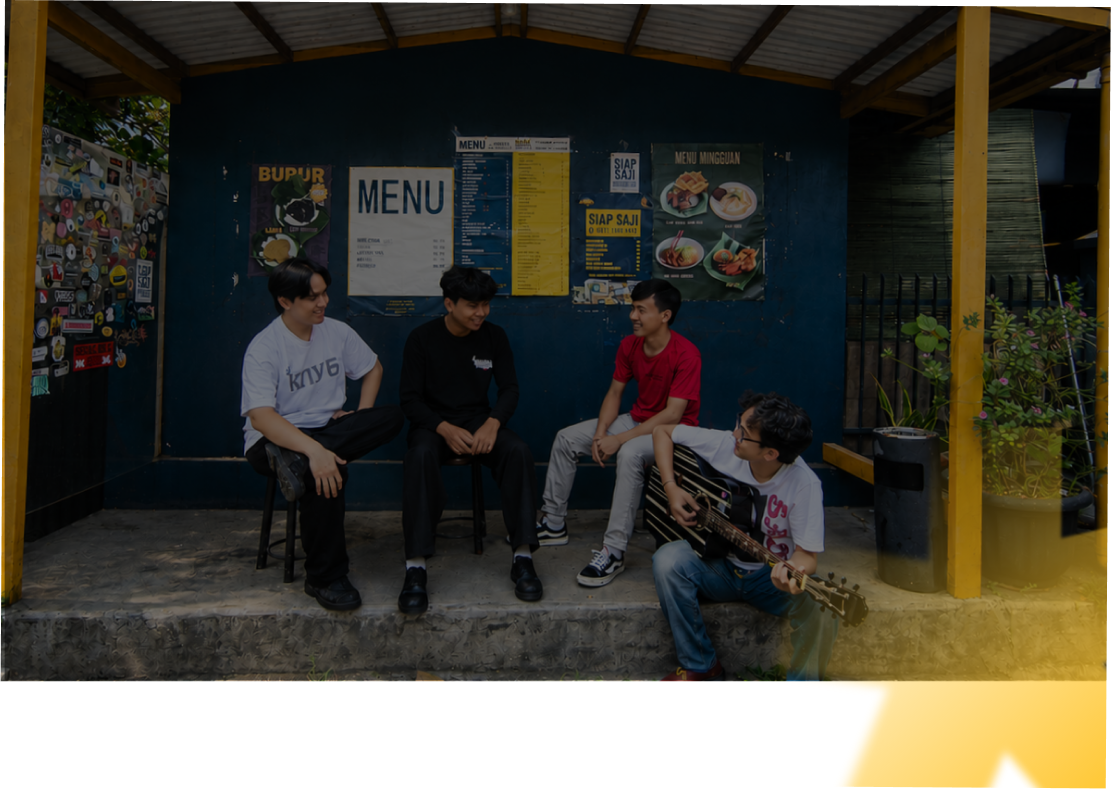
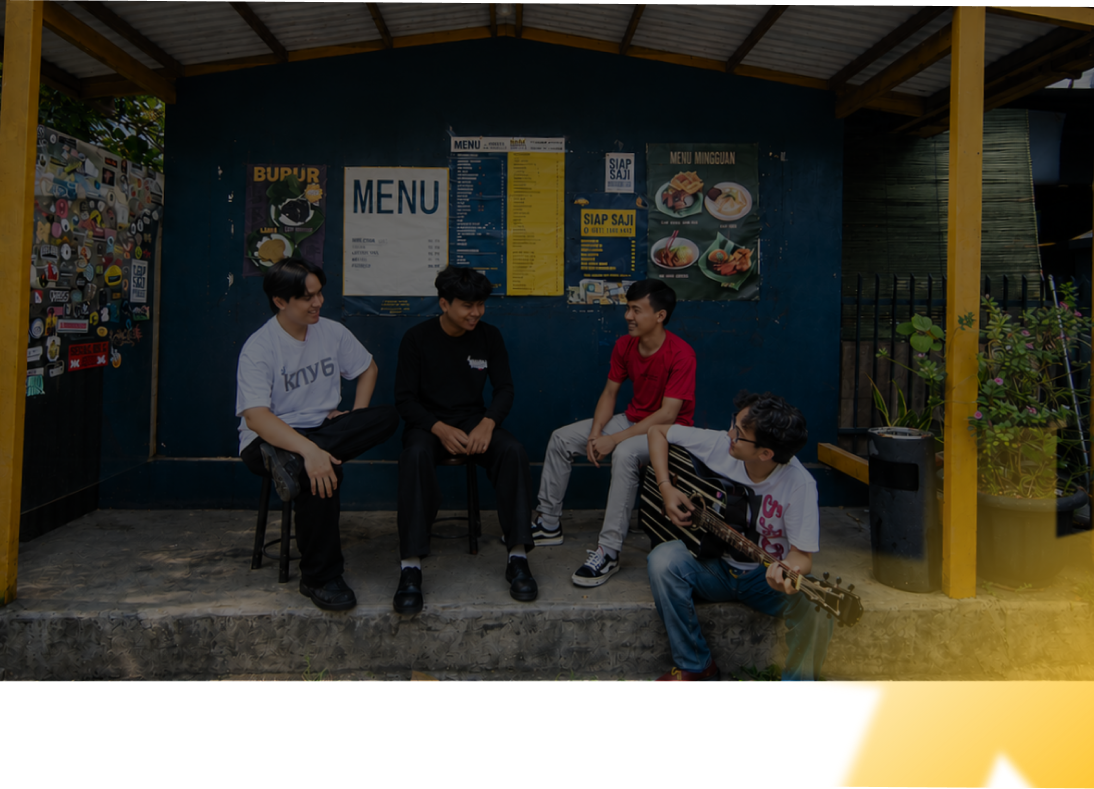
changes

diff --git a/produk.html b/produk.html
@@ -48,27 +48,26 @@
 
 <body class="bg-white font-tommy antialiased text-gray-800 min-h-screen flex flex-col">
 
-    <!-- Navbar -->
     <nav class="bg-imah-yellow px-6 md:px-12 flex justify-between items-center sticky top-0 z-50 shadow-sm">
         <!-- Logo Area -->
         <a href="index.html" class="flex flex-col items-center justify-center">
-            <img src="assets/navicon.png" class="w-auto h-16" alt="">
+            <img src="assets/navicon.png" class="w-auto h-14" alt="">
         </a>
 
         <!-- Links & Cart -->
         <div class="hidden md:flex items-center gap-4 lg:gap-8">
             <a href="index.html"
-                class="bg-imah-blue text-white px-5 py-2 rounded-full font-light tracking-wide hover:bg-blue-900 transition shadow-md">BERANDA</a>
+                class="bg-imah-blue text-white px-5 py-1 rounded-full font-light tracking-wide hover:bg-blue-900 transition shadow-md">BERANDA</a>
             <a href="cabang.html"
-                class="bg-imah-blue text-white px-5 py-2 rounded-full font-light tracking-wide hover:bg-blue-900 transition shadow-md">CABANG</a>
+                class="bg-imah-blue text-white px-5 py-1 rounded-full font-light tracking-wide hover:bg-blue-900 transition shadow-md">CABANG</a>
             <a href="produk.html"
-                class="bg-imah-blue text-white px-5 py-2 rounded-full font-light tracking-wide hover:bg-blue-900 transition shadow-md">PRODUK</a>
+                class="bg-imah-blue text-white px-5 py-1 rounded-full font-light tracking-wide hover:bg-blue-900 transition shadow-md">PRODUK</a>
             <a href="kontak.html"
-                class="bg-imah-blue text-white px-5 py-2 rounded-full font-light tracking-wide hover:bg-blue-900 transition shadow-md">KONTAK</a>
+                class="bg-imah-blue text-white px-5 py-1 rounded-full font-light tracking-wide hover:bg-blue-900 transition shadow-md">KONTAK</a>
 
             <!-- Icon placeholder for the box/cart -->
             <a href="#" class="ml-2 hover:opacity-80 transition">
-                <img src="assets/beranda.png" class="w-auto h-20" alt="">
+                <img src="assets/beranda.png" class="w-auto h-16" alt="">
             </a>
         </div>
     </nav>
@@ -121,7 +120,7 @@
                     <div class="grid grid-cols-3 gap-14 relative z-10">
                         <div class="flex flex-col justify-center items-center">
                             <img src="assets/MENU/MAKANAN BERAT/CABE IJO.png" alt="Cumi Sambel Ijo"
-                                class="relative z-10 w-full h-auto object-cover rounded-sm">
+                                class="hover:scale-[105%] transform transition z-10 w-full h-auto object-cover rounded-sm">
                             <!-- Image Caption -->
                             <h3 class="text-white font-pulang text-3xl md:text-4xl mt-6 tracking-wide drop">Cumi Sambel
                                 Ijo
@@ -129,7 +128,7 @@
                         </div>
                         <div class="flex flex-col justify-center items-center">
                             <img src="assets/MENU/MAKANAN BERAT/LODEH PINDANG.png" alt="Cumi Sambel Ijo"
-                                class="relative z-10 w-full h-auto object-cover rounded-sm">
+                                class="hover:scale-[105%] transform transition z-10 w-full h-auto object-cover rounded-sm">
                             <!-- Image Caption -->
                             <h3 class="text-white font-pulang text-3xl md:text-4xl mt-6 tracking-wide drop">Lodeh
                                 Pindang telur
@@ -137,7 +136,7 @@
                         </div>
                         <div class="flex flex-col justify-center items-center">
                             <img src="assets/MENU/MAKANAN BERAT/Pecel.png" alt="Cumi Sambel Ijo"
-                                class="relative z-10 w-full h-auto object-cover rounded-sm">
+                                class="hover:scale-[105%] transform transition z-10 w-full h-auto object-cover rounded-sm">
                             <!-- Image Caption -->
                             <h3 class="text-white font-pulang text-3xl md:text-4xl mt-6 tracking-wide drop">Nasi Pecel
                             </h3>
@@ -198,7 +197,7 @@
                 <!-- Item 1 -->
                 <div class="flex flex-col items-center text-center">
                     <img src="assets/MENU/MAKANAN BERAT/RAWON.png" alt="Rawon"
-                        class="w-full aspect-[4/3] object-cover rounded-sm mb-4 shadow-sm">
+                        class="hover:scale-[105%] transform transition w-full aspect-[4/3] object-cover rounded-sm mb-4 shadow-sm">
                     <h3 class="text-imah-blue font-bold text-3xl md:text-4xl mb-1 tracking-wide">Rawon</h3>
                     <p class="text-imah-blue font-light text-2xl md:text-3xl mb-3">Rp 33.000</p>
                     <p class="text-black text-base font-light md:text-base px-2">Rawon menghadirkan aroma rempah yang
@@ -210,7 +209,7 @@
                 <!-- Item 2 -->
                 <div class="flex flex-col items-center text-center">
                     <img src="assets/MENU/MAKANAN BERAT/mie.png" alt="Mie Ayam"
-                        class="w-full aspect-[4/3] object-cover rounded-sm mb-4 shadow-sm">
+                        class="hover:scale-[105%] transform transition w-full aspect-[4/3] object-cover rounded-sm mb-4 shadow-sm">
                     <h3 class="text-imah-blue font-bold text-3xl md:text-4xl mb-1 tracking-wide">Mie Ayam</h3>
                     <p class="text-imah-blue font-light text-2xl md:text-3xl mb-3">Rp 20.000</p>
                     <p class="text-black text-base font-light md:text-base px-2">Mie ayam menyajikan olahan mie yang
@@ -221,7 +220,7 @@
                 <!-- Item 3 -->
                 <div class="flex flex-col items-center text-center">
                     <img src="assets/MENU/MAKANAN BERAT/Pecel.png" alt="Nasi Pecel"
-                        class="w-full aspect-[4/3] object-cover rounded-sm mb-4 shadow-sm">
+                        class="hover:scale-[105%] transform transition w-full aspect-[4/3] object-cover rounded-sm mb-4 shadow-sm">
                     <h3 class="text-imah-blue font-bold text-3xl md:text-4xl mb-1 tracking-wide">Nasi Pecel</h3>
                     <p class="text-imah-blue font-light text-2xl md:text-3xl mb-3">Rp 25.000</p>
                     <p class="text-black text-base font-light md:text-base px-2">Pecel kacang gurih manis dengan sayuran
@@ -230,7 +229,7 @@
                 <!-- Item 4 -->
                 <div class="flex flex-col items-center text-center">
                     <img src="assets/MENU/MAKANAN BERAT/NASI KERANG.png" alt="Nasi Kerang Telur"
-                        class="w-full aspect-[4/3] object-cover rounded-sm mb-4 shadow-sm">
+                        class="hover:scale-[105%] transform transition w-full aspect-[4/3] object-cover rounded-sm mb-4 shadow-sm">
                     <h3 class="text-imah-blue font-bold text-3xl md:text-4xl mb-1 tracking-wide">Nasi Kerang Telur</h3>
                     <p class="text-imah-blue font-light text-2xl md:text-3xl mb-3">Rp 22.000</p>
                     <p class="text-black text-base font-light md:text-base px-2">Nasi Kerang Gurih Pedas menawarkan
@@ -242,7 +241,7 @@
                 <!-- Item 5 -->
                 <div class="flex flex-col items-center text-center">
                     <img src="assets/MENU/MAKANAN BERAT/SOTO BANDUNG.png" alt="Soto Bandung"
-                        class="w-full aspect-[4/3] object-cover rounded-sm mb-4 shadow-sm">
+                        class="hover:scale-[105%] transform transition w-full aspect-[4/3] object-cover rounded-sm mb-4 shadow-sm">
                     <h3 class="text-imah-blue font-bold text-3xl md:text-4xl mb-1 tracking-wide">Soto Bandung</h3>
                     <p class="text-imah-blue font-light text-2xl md:text-3xl mb-3">Rp 28.000</p>
                     <p class="text-black text-base font-light md:text-base px-2">Soto Bandung segar dengan kuah bening
@@ -253,7 +252,7 @@
                 <!-- Item 6 -->
                 <div class="flex flex-col items-center text-center">
                     <img src="assets/MENU/MAKANAN BERAT/LONTONG KARI.png" alt="Lontong Kari"
-                        class="w-full aspect-[4/3] object-cover rounded-sm mb-4 shadow-sm">
+                        class="hover:scale-[105%] transform transition w-full aspect-[4/3] object-cover rounded-sm mb-4 shadow-sm">
                     <h3 class="text-imah-blue font-bold text-3xl md:text-4xl mb-1 tracking-wide">Lontong Kari</h3>
                     <p class="text-imah-blue font-light text-2xl md:text-3xl mb-3">Rp 15.000</p>
                     <p class="text-black text-base font-light md:text-base px-2">Lontong Kari menyuguhkan paduan kental
@@ -264,7 +263,7 @@
                 <!-- Item 7 -->
                 <div class="flex flex-col items-center text-center">
                     <img src="assets/MENU/MAKANAN BERAT/LODEH PINDANG.png" alt="Lodeh Pindang Telur"
-                        class="w-full aspect-[4/3] object-cover rounded-sm mb-4 shadow-sm">
+                        class="hover:scale-[105%] transform transition w-full aspect-[4/3] object-cover rounded-sm mb-4 shadow-sm">
                     <h3 class="text-imah-blue font-bold text-3xl md:text-4xl mb-1 tracking-wide">Lodeh Pindang Telur
                     </h3>
                     <p class="text-imah-blue font-light text-2xl md:text-3xl mb-3">Rp 25.000</p>
@@ -277,7 +276,7 @@
                 <!-- Item 8 -->
                 <div class="flex flex-col items-center text-center">
                     <img src="assets/MENU/MAKANAN BERAT/CABE IJO.png" alt="Cumi Cabe Ijo"
-                        class="w-full aspect-[4/3] object-cover rounded-sm mb-4 shadow-sm">
+                        class="hover:scale-[105%] transform transition w-full aspect-[4/3] object-cover rounded-sm mb-4 shadow-sm">
                     <h3 class="text-imah-blue font-bold text-3xl md:text-4xl mb-1 tracking-wide">Cumi Cabe Ijo</h3>
                     <p class="text-imah-blue font-light text-2xl md:text-3xl mb-3">Rp 58.000</p>
                     <p class="text-black text-base font-light md:text-base px-2">Cumi Cabe Ijo menyuguhkan sensasi pedas
@@ -288,7 +287,7 @@
                 <!-- Item 9 -->
                 <div class="flex flex-col items-center text-center">
                     <img src="assets/MENU/MAKANAN BERAT/KETOPRAK.png" alt="Ketoprak"
-                        class="w-full aspect-[4/3] object-cover rounded-sm mb-4 shadow-sm">
+                        class="hover:scale-[105%] transform transition w-full aspect-[4/3] object-cover rounded-sm mb-4 shadow-sm">
                     <h3 class="text-imah-blue font-bold text-3xl md:text-4xl mb-1 tracking-wide">Ketoprak</h3>
                     <p class="text-imah-blue font-light text-2xl md:text-3xl mb-3">Rp 19.000</p>
                     <p class="text-black text-base font-light md:text-base px-2">Ketoprak menghadirkan perpaduan lontong
@@ -308,7 +307,7 @@
                 <!-- Cemilan 1 -->
                 <div class="flex flex-col items-center text-center">
                     <img src="assets/MINUMAN/ketan.png" alt="Ketan Susu Keju"
-                        class="w-full aspect-[4/3] object-cover rounded-sm mb-4 shadow-sm">
+                        class="hover:scale-[105%] transform transition w-full aspect-[4/3] object-cover rounded-sm mb-4 shadow-sm">
                     <h3 class="text-imah-blue font-bold text-3xl md:text-4xl mb-1 tracking-wide">Ketan Susu Keju</h3>
                     <p class="text-imah-blue font-light text-2xl md:text-3xl mb-3">Rp 12.000</p>
                     <p class="text-black text-base font-light md:text-base px-2">Ketan hangat disiram susu kental manis
@@ -317,7 +316,7 @@
                 <!-- Cemilan 2 -->
                 <div class="flex flex-col items-center text-center">
                     <img src="assets/MINUMAN/peyem.png" alt="Peyeum Goreng"
-                        class="w-full aspect-[4/3] object-cover rounded-sm mb-4 shadow-sm">
+                        class="hover:scale-[105%] transform transition w-full aspect-[4/3] object-cover rounded-sm mb-4 shadow-sm">
                     <h3 class="text-imah-blue font-bold text-3xl md:text-4xl mb-1 tracking-wide">Peyeum Goreng</h3>
                     <p class="text-imah-blue font-light text-2xl md:text-3xl mb-3">Rp 15.000</p>
                     <p class="text-black text-base font-light md:text-base px-2">Peuyeum singkong khas Bandung yang
@@ -326,7 +325,7 @@
                 <!-- Cemilan 3 -->
                 <div class="flex flex-col items-center text-center">
                     <img src="assets/MINUMAN/candil.png" alt="Candil Unggu"
-                        class="w-full aspect-[4/3] object-cover rounded-sm mb-4 shadow-sm">
+                        class="hover:scale-[105%] transform transition w-full aspect-[4/3] object-cover rounded-sm mb-4 shadow-sm">
                     <h3 class="text-imah-blue font-bold text-3xl md:text-4xl mb-1 tracking-wide">Candil Unggu</h3>
                     <p class="text-imah-blue font-light text-2xl md:text-3xl mb-3">Rp 13.000</p>
                     <p class="text-black text-base font-light md:text-base px-2">Bola-bola kenyal dari ubi ungu yang
@@ -340,7 +339,7 @@
                 <!-- Minuman 1 -->
                 <div class="flex flex-col items-center text-center">
                     <img src="assets/MINUMAN/kopi.png" alt="Kopi Vietnam Drip"
-                        class="w-full aspect-[4/3] object-cover rounded-sm mb-4 shadow-sm">
+                        class="hover:scale-[105%] transform transition w-full aspect-[4/3] object-cover rounded-sm mb-4 shadow-sm">
                     <h3 class="text-imah-blue font-bold text-3xl md:text-4xl mb-1 tracking-wide">Kopi vietnam drip</h3>
                     <p class="text-imah-blue font-light text-2xl md:text-3xl mb-3">Rp 22.000</p>
                     <p class="text-black text-base font-light md:text-base px-2">Kopi pekat hasil seduhan metode drip
@@ -350,7 +349,7 @@
                 <!-- Minuman 2 -->
                 <div class="flex flex-col items-center text-center">
                     <img src="assets/MINUMAN/teh.png" alt="Es Teh Manis"
-                        class="w-full aspect-[4/3] object-cover rounded-sm mb-4 shadow-sm">
+                        class="hover:scale-[105%] transform transition w-full aspect-[4/3] object-cover rounded-sm mb-4 shadow-sm">
                     <h3 class="text-imah-blue font-bold text-3xl md:text-4xl mb-1 tracking-wide">Es Teh Manis</h3>
                     <p class="text-imah-blue font-light text-2xl md:text-3xl mb-3">Rp 8.000</p>
                     <p class="text-black text-base font-light md:text-base px-2">Teh melati seduh tradisional yang
@@ -359,7 +358,7 @@
                 <!-- Minuman 3 -->
                 <div class="flex flex-col items-center text-center">
                     <img src="assets/MINUMAN/air.png" alt="Air Mineral"
-                        class="w-full aspect-[4/3] object-cover rounded-sm mb-4 shadow-sm">
+                        class="hover:scale-[105%] transform transition w-full aspect-[4/3] object-cover rounded-sm mb-4 shadow-sm">
                     <h3 class="text-imah-blue font-bold text-3xl md:text-4xl mb-1 tracking-wide">Air Mineral</h3>
                     <p class="text-imah-blue font-light text-2xl md:text-3xl mb-3">Rp 5.000</p>
                     <p class="text-black text-base font-light md:text-base px-2">Air mineral dalam kemasan untuk

diff --git a/index.html b/index.html
@@ -74,7 +74,7 @@
     </nav>
 
     <!-- Main Content Area -->
-    <main class="flex-grow relative w-full h-[85vh] md:h-[calc(100vh-80px)] bg-cover bg-center overflow-hidden"
+    <main class="flex-grow relative w-full h-[85vh] md:h-[calc(100vh-60px)] bg-cover bg-center overflow-hidden"
         style="background-image: url('assets/BERANDA/HERO\ IMAGE\ 1.png');">
         <!-- Content Container -->
         <div class="relative h-full w-full max-w-full mx-auto px-6 md:px-12 py-10 flex flex-col justify-between">
